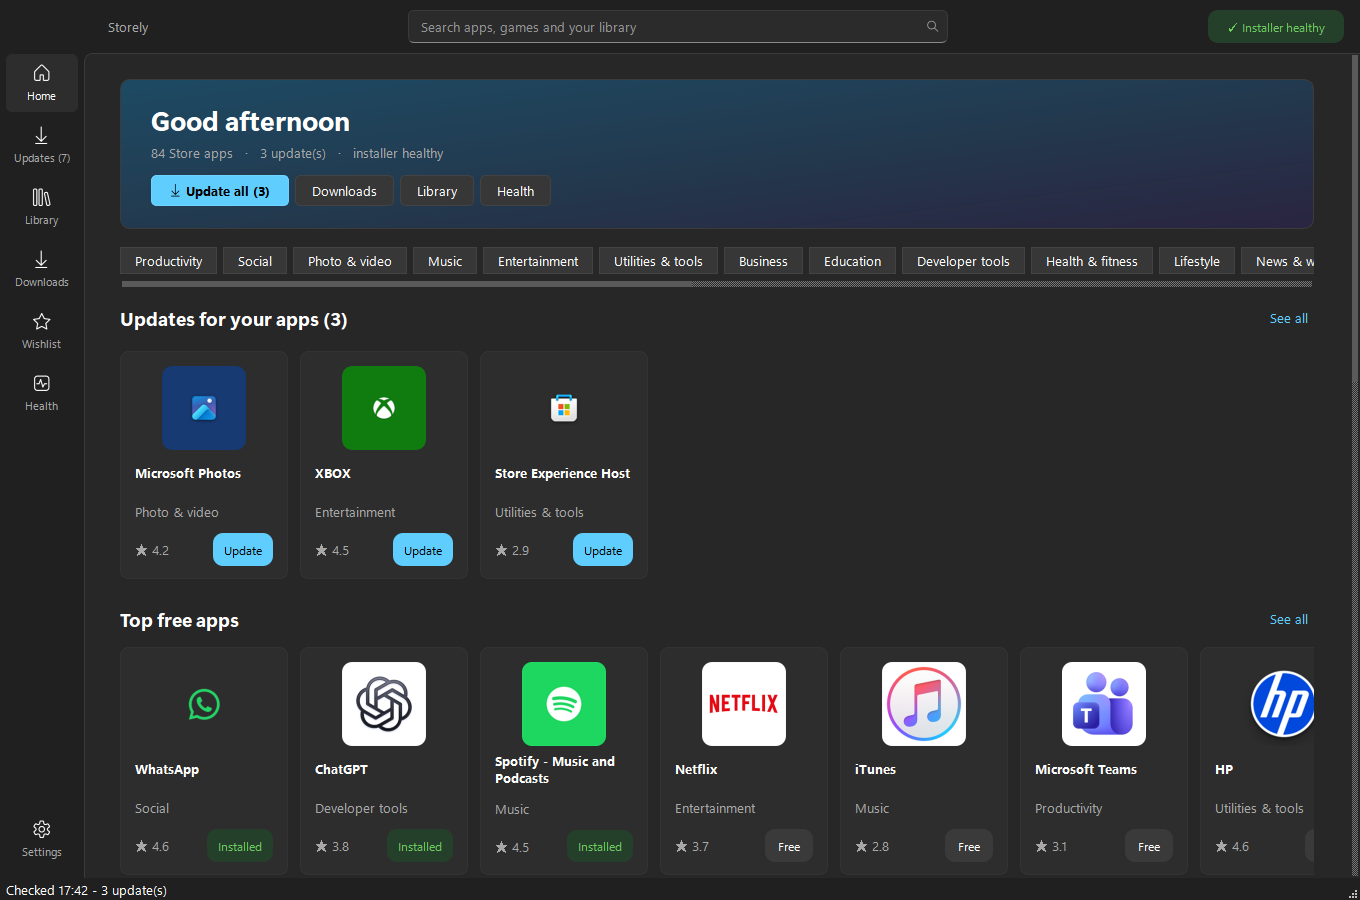
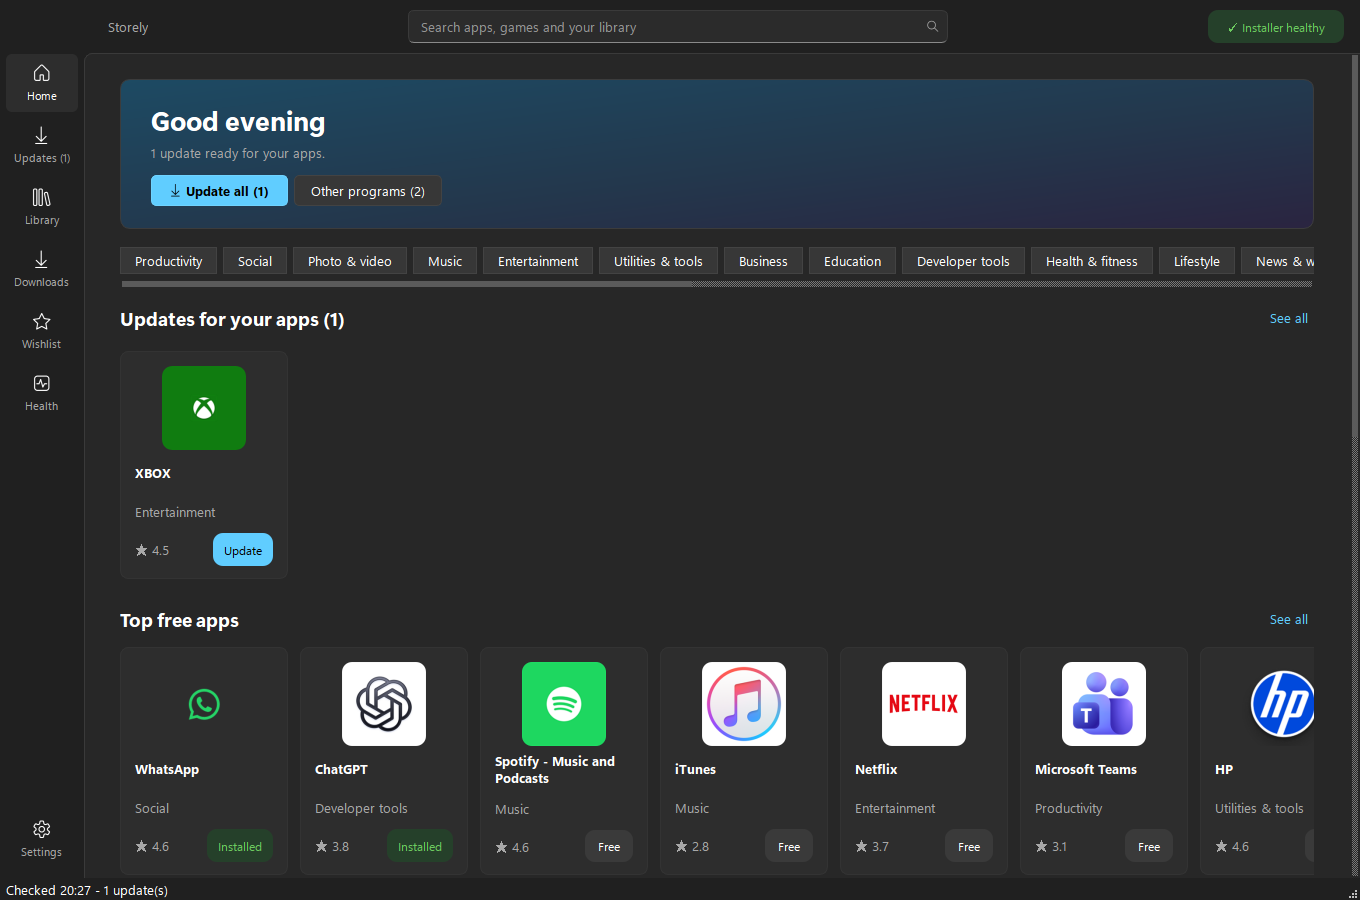
1.3.0: changelog, fresh screenshots, screenshot tool waits for pages to load

diff --git a/docs/index.html b/docs/index.html
@@ -415,7 +415,7 @@
           <div class="card">
             <h3>Storely fixes all three</h3>
             <p>
-              One install at a time across the PC, a jam detector, and an Unjam
+              One install at a time across the PC, a jam detector, and a Fix stuck install
               button that clears the stuck jobs properly.
             </p>
           </div>
@@ -441,7 +441,7 @@
               <tr>
                 <td>Stuck on "Pending" or updates that never finish</td>
                 <td class="us">
-                  <span class="yes">✓</span> One at a time, plus Unjam
+                  <span class="yes">✓</span> One at a time, plus one-click fix
                 </td>
                 <td>
                   <span class="no">✕</span> Can stay stuck, even after a restart

diff --git a/tools/screenshots.py b/tools/screenshots.py
@@ -28,6 +28,19 @@ def settle(qa, seconds):
         time.sleep(0.02)
 
 
+def settle_loaded(qa, w, least, most=45):
+    """Wait at least `least` seconds, then until no background job or picture download has run for a whole second
+    (so a page isn't captured half-drawn), giving up after `most`."""
+    settle(qa, least)
+    end, quiet_since = time.time() + most, None
+    while time.time() < end:
+        busy = w.jobs.pool.activeThreadCount() or w.images.pool.activeThreadCount() or w.scanning or w.checking
+        quiet_since = None if busy else (quiet_since or time.time())
+        if quiet_since and time.time() - quiet_since >= 1:
+            return
+        settle(qa, 0.2)
+
+
 def main():
     ap = argparse.ArgumentParser()
     ap.add_argument("pages", nargs="*", default=["home", "updates", "library", "downloads", "wishlist", "health", "settings"])
@@ -53,7 +66,7 @@ def main():
     t0 = time.time()
     while (w.scanning or w.checking or not w.engine.apps) and time.time() - t0 < 120:
         settle(qa, 0.5)
-    settle(qa, 15)     # winget list, pictures
+    settle_loaded(qa, w, 3, 60)     # winget list, pictures
     if a.only_winget:
         keep = {i.strip().lower() for i in a.only_winget.split(",")}
         w.winget_ups = [u for u in w.winget_ups if u.id.lower() in keep]
@@ -66,14 +79,12 @@ def main():
             kind, _, arg = p.partition(":")
             if kind == "app":
                 w.open_product(arg)
-                settle(qa, 8)
             elif kind == "search":
                 w.search.setText(arg)
                 w.do_search()
-                settle(qa, 8)
             else:
                 w.show_page(kind)
-            settle(qa, 3)
+            settle_loaded(qa, w, 1.5)
             if out:
                 name = f"{a.theme}-{kind}" + (f"-{arg}" if arg else "")
                 w.grab().save(str(out / f"{''.join(c if c.isalnum() or c in '-_' else '_' for c in name)}.png"))

diff --git a/storemgr/__init__.py b/storemgr/__init__.py
@@ -11,7 +11,7 @@ import truststore
 truststore.inject_into_ssl()
 
 APP_NAME = "Storely"
-__version__ = "1.2.1"
+__version__ = "1.3.0"
 APP_ID = "Storely.App"     # Windows AppUserModelID: groups the taskbar button under our icon
 FROZEN = bool(getattr(sys, "frozen", False))
 ROOT = Path(sys.executable).resolve().parent if FROZEN else Path(__file__).resolve().parent.parent

diff --git a/CHANGELOG.md b/CHANGELOG.md
@@ -1,5 +1,51 @@
 # Changelog
 
+## [1.3.0] - 2026-10-30
+
+### New
+
+- **Install Storely's own update when you close it**: Settings > Storely updates can get a new version ready in the
+  background and install it as Storely closes (Windows asks for admin once). Or pick "Install when I close Storely"
+  for one release.
+- **Install from folder** now copies the offline package somewhere private first, checks it there and shows you what
+  it is before installing: version, permissions, and a clear warning (with an opt-in) if it would replace a newer
+  version.
+- **Home** gives one status and one button: fix stuck downloads, update everything, or check for updates. Other
+  programs (winget) have their own button and a count.
+- **Keyboard**: Ctrl+1 to Ctrl+7 jump between pages; focus is visible on buttons, lists and menus.
+- Store links (ms-windows-store://) open desktop apps from the Store too, and update links that were set up for the
+  old My Store name.
+
+### Fixed
+
+- Some apps (Microsoft News and others) showed an "update" that was really an older version, because the Store
+  numbers the package bundle differently from the app inside it. Storely now compares the app's own version and
+  never installs an older one unless you pick it.
+- Picking a specific version for an app already in Downloads was ignored.
+- The download queue could start before Storely knew which apps you have, and a crash mid-save could damage it.
+- Health could show "healthy" while Store downloads were failing; it now lists failed and stuck items and can cancel
+  them all.
+- Your region and language come from Windows instead of defaulting to the US.
+- Two Storely windows could download the same file at once; now one waits for the other.
+- Choosing an install drive that isn't ready no longer crashes the page.
+- winget results like "restart Windows to finish" and "already up to date" are no longer shown as failures, and
+  cancelling a winget update stops the whole installer.
+- Network problems read as plain words instead of raw connection errors.
+- Light theme: checkboxes are clearly visible, and the update badge on app tiles is readable.
+- "Unjam" is now **Fix stuck install**, and only shows on an app's page when that app is actually stuck. Buttons that
+  need admin carry a shield.
+- Quitting while work is running asks first, and says what will resume next time.
+
+### Security
+
+- The self-update installer is locked and re-checked against its signed hash at the moment it starts, so it can't be
+  swapped after download.
+- The admin helper finds Windows folders from Windows itself (not environment variables), loads only Windows' own
+  PowerShell modules, and only talks to a Storely window running as the same user.
+- Silent updates keep the choices you made at install time; the installer only removes an old My Store if it really
+  is one.
+- Release builds are pinned, attested and verified before they are signed and published.
+
 ## [1.2.1] - 2026-10-09
 
 ### Fixed

diff --git a/README.md b/README.md
@@ -21,14 +21,14 @@ Downloads stuck on **Pending**? Updates that never finish? One frozen app blocki
 app installer jamming - and it reloads the stuck job every time you restart, so rebooting doesn't fix it.
 
 **Storely** gets your apps from the same Microsoft servers the Store uses, but installs them its own way: one at a
-time, with a jam detector and a one-click **Unjam** that clears stuck jobs for good. Then it keeps _everything_ up to
+time, with a jam detector and a one-click **Fix stuck install** that clears stuck jobs for good. Then it keeps _everything_ up to
 date - Store apps and your other programs - from one page.
 
 ## Storely vs the Microsoft Store
 
 |                                                             | **Storely**                                         | Microsoft Store                        |
 | ----------------------------------------------------------- | --------------------------------------------------- | -------------------------------------- |
-| Stuck on "Pending" / updates that never finish              | ✅ One install at a time + **Unjam** that clears it | ❌ Can stay stuck, even after restarts |
+| Stuck on "Pending" / updates that never finish              | ✅ One install at a time + **Fix stuck install** that clears it | ❌ Can stay stuck, even after restarts |
 | Updates your other programs (Chrome, 7-Zip, Steam, Zoom...) | ✅ Same page, through winget                        | ❌                                     |
 | Tells you when an update wants new permissions              | ✅ Waits for your OK (camera, mic, files...)        | ❌ Installs silently                   |
 | Install an **older version** of an app                      | ✅                                                  | ❌                                     |
